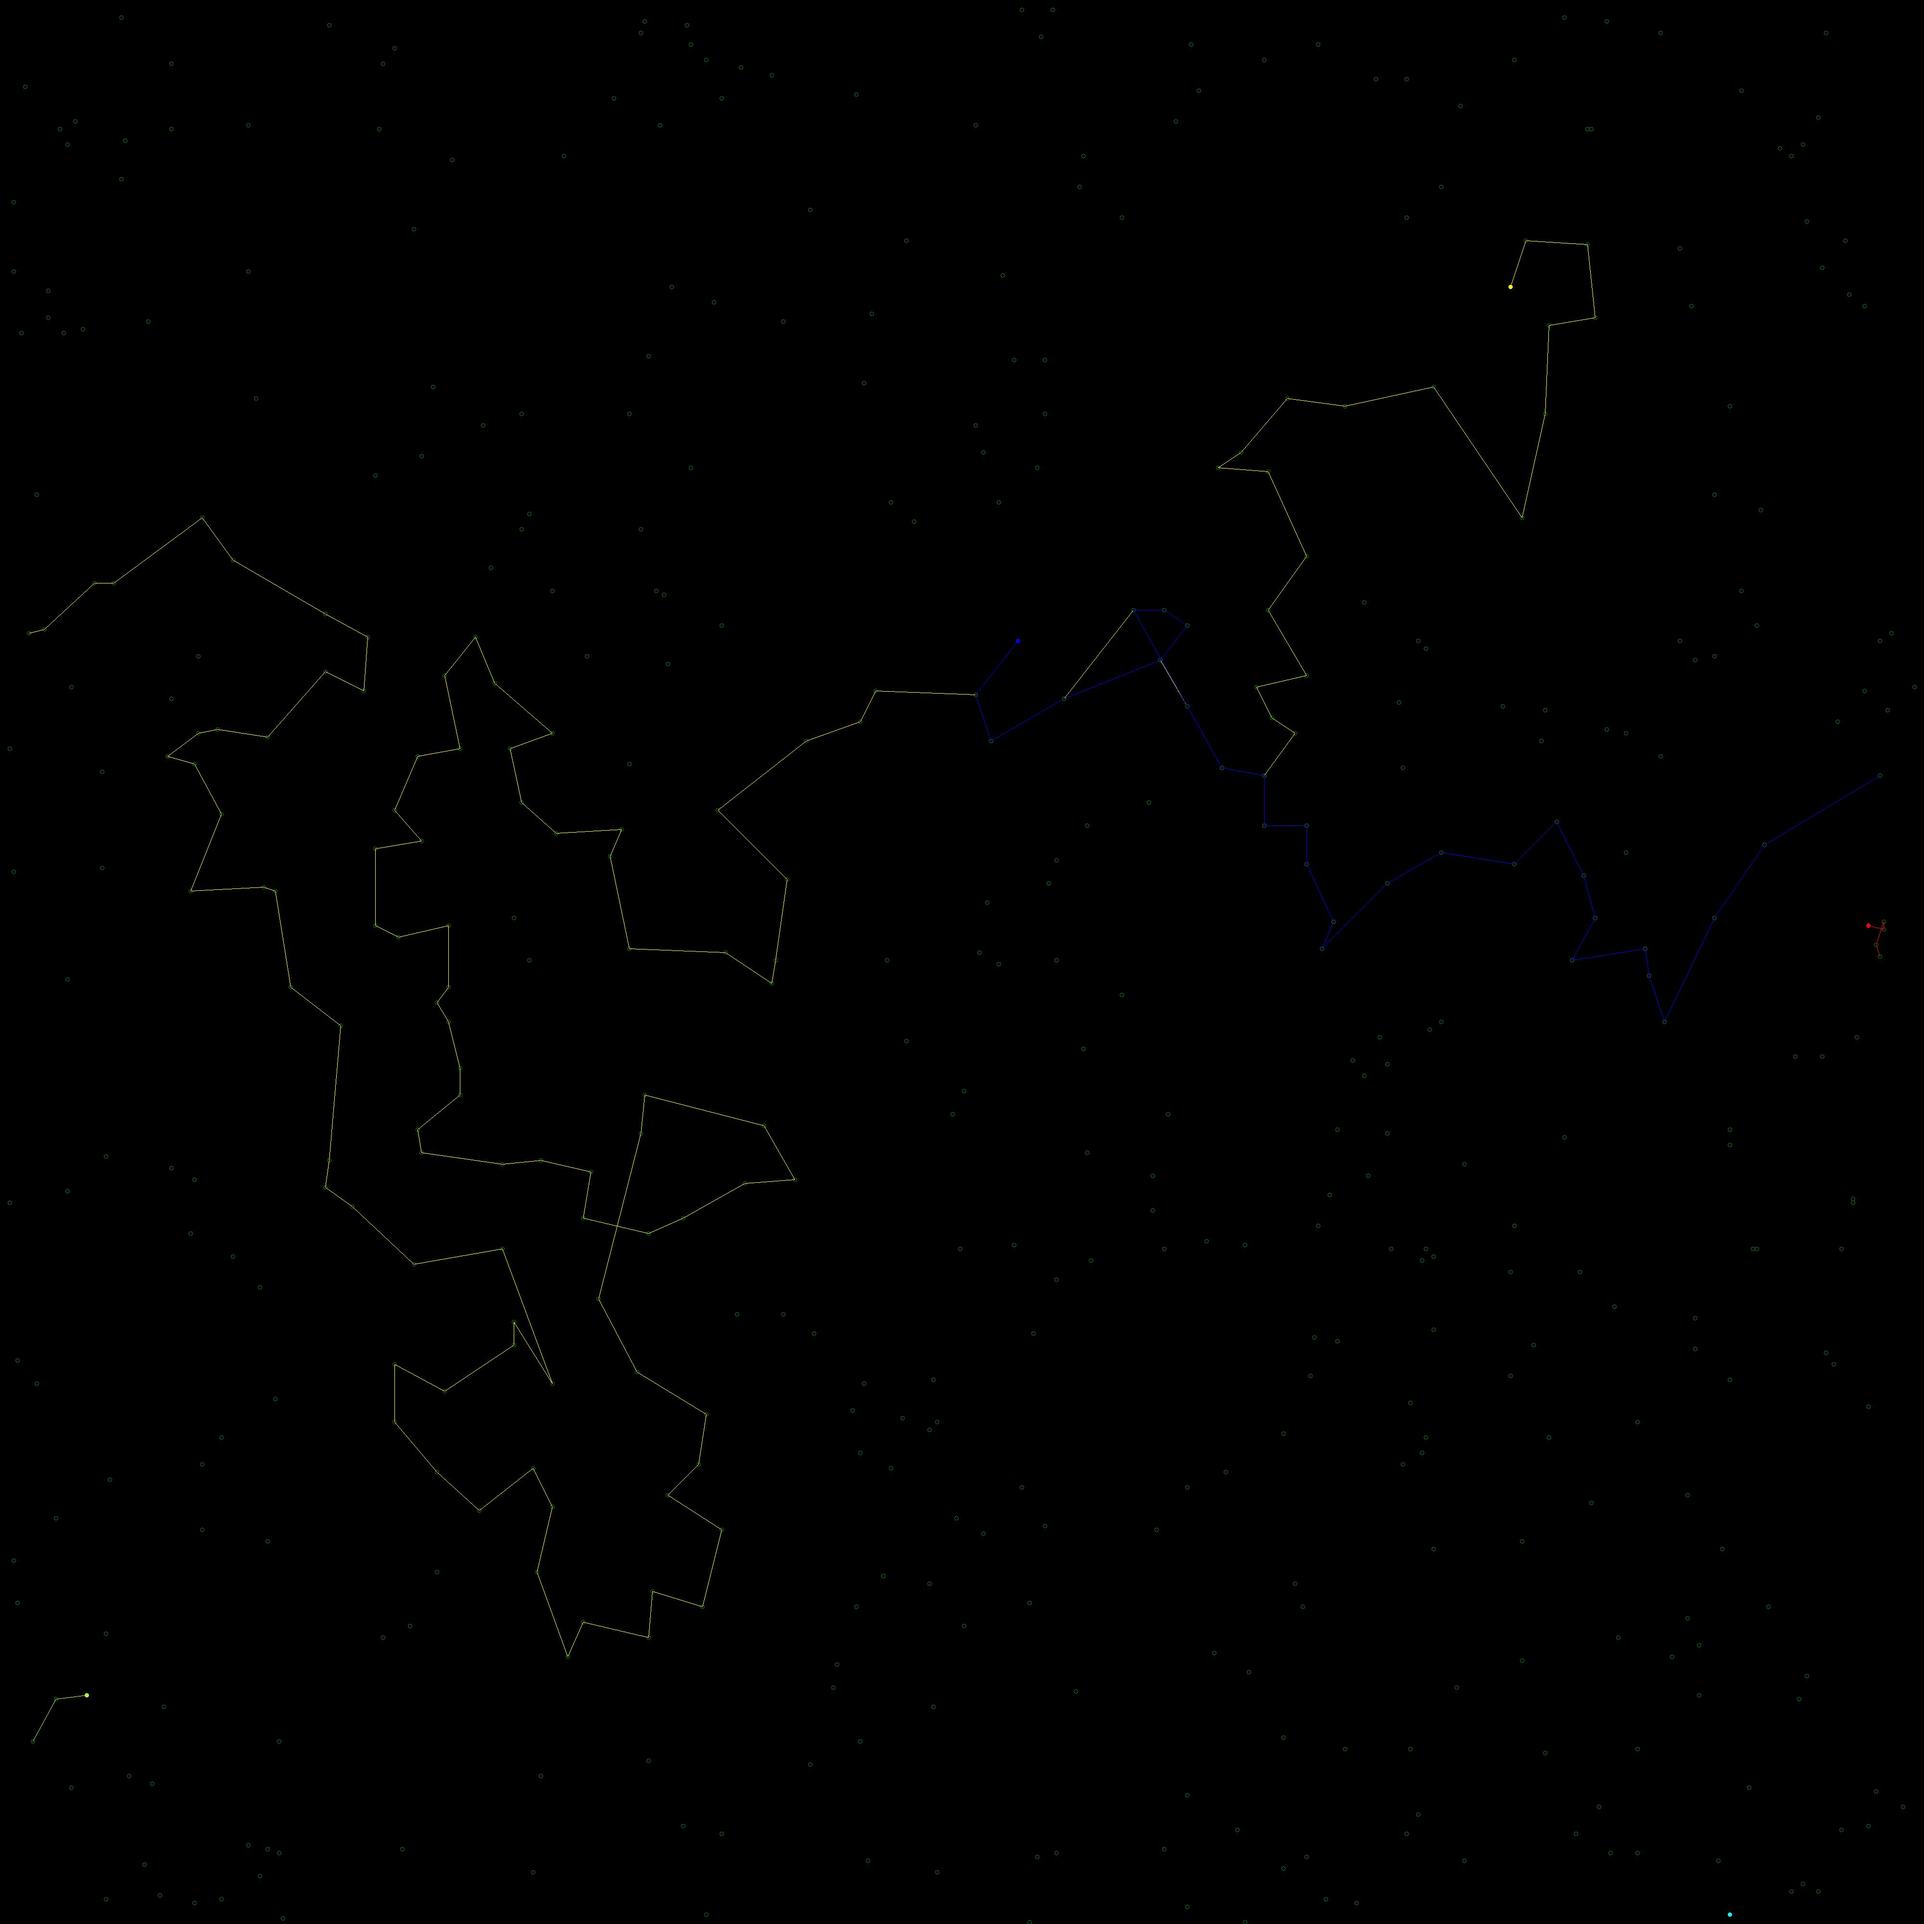
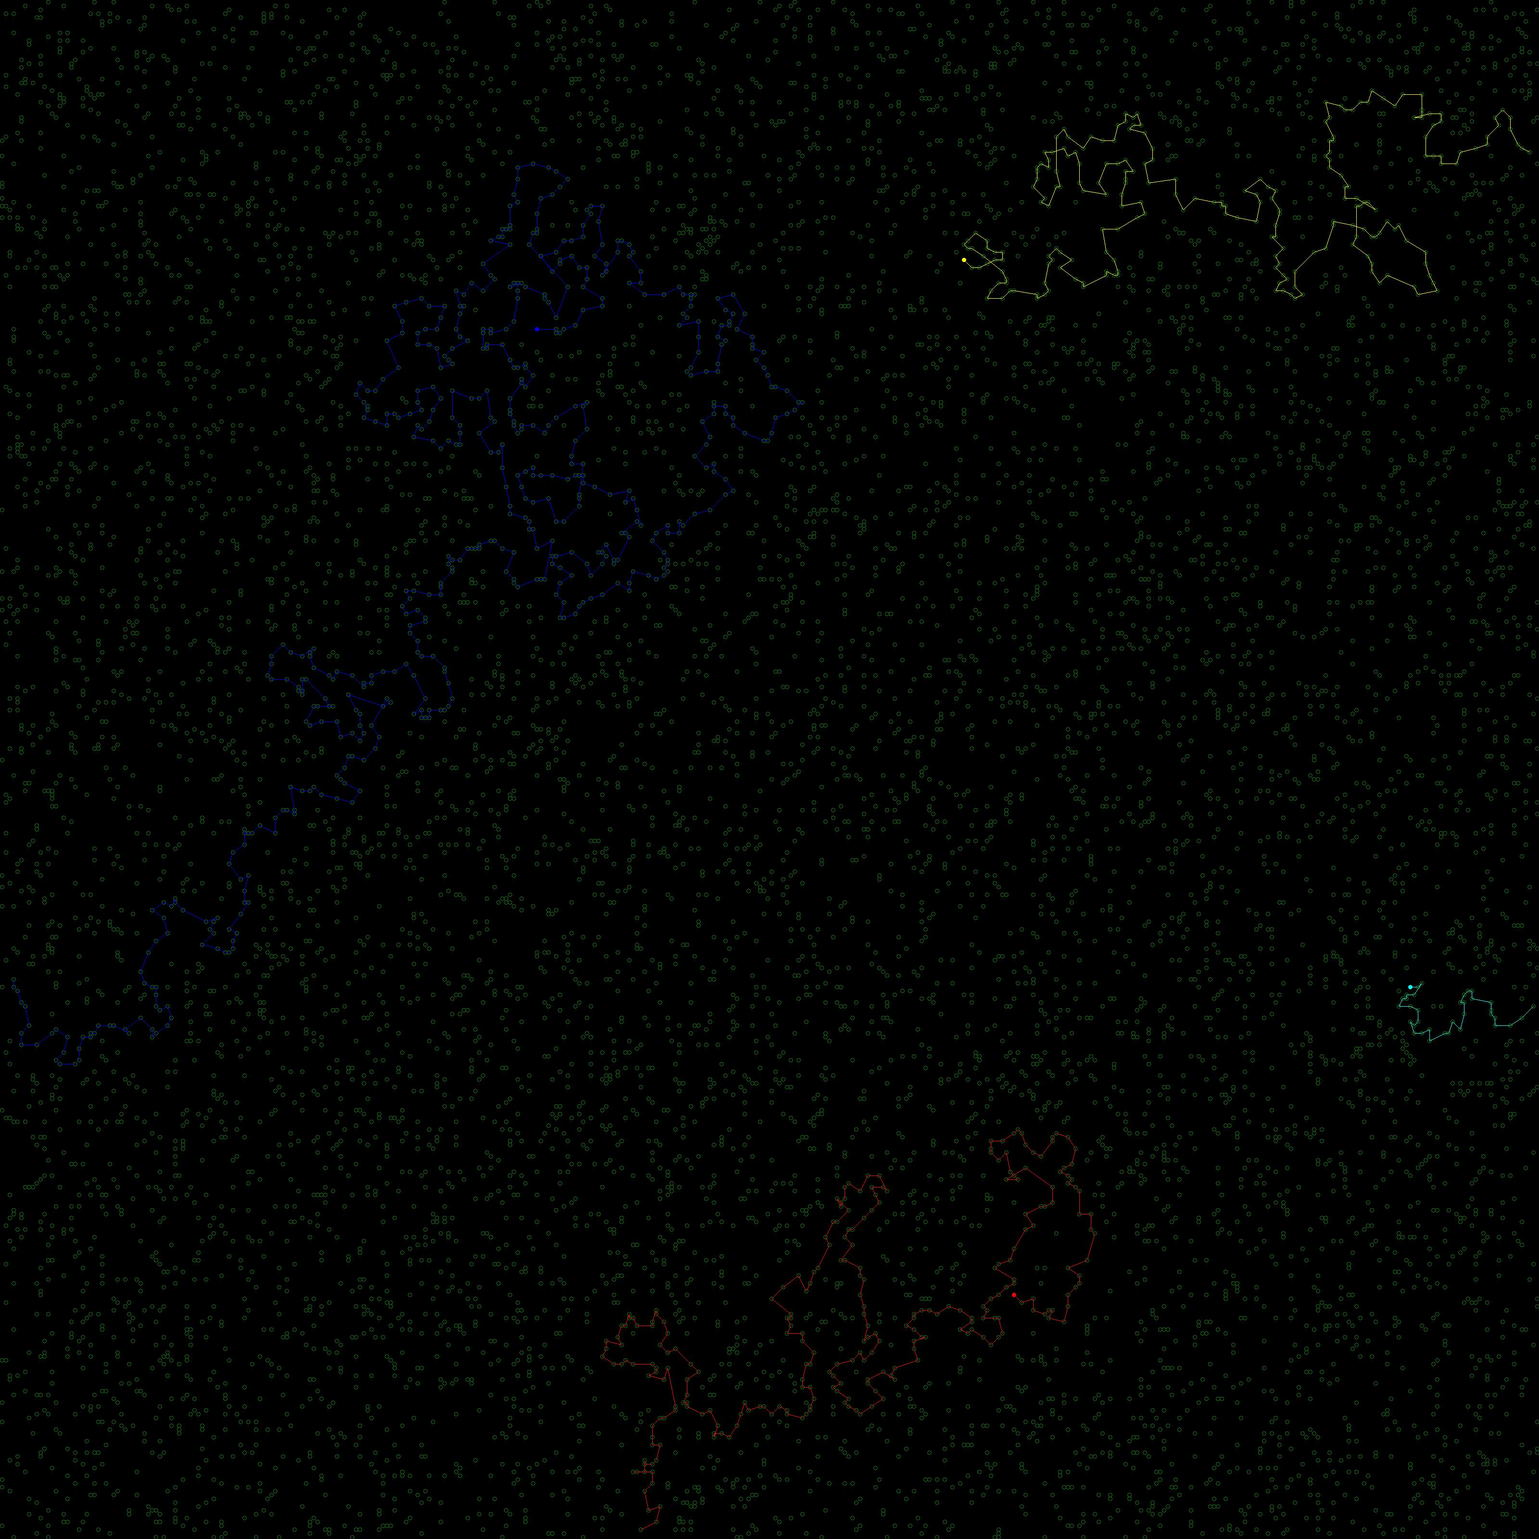
e

diff --git a/Objects/Wood.cs b/Objects/Wood.cs
@@ -1,4 +1,6 @@
-using System;
+using EscapeFromTheWoods.Objects;
+using System;
+using System.Collections.Concurrent;
 using System.Collections.Generic;
 using System.Drawing;
 using System.Drawing.Imaging;
@@ -13,52 +15,50 @@ namespace EscapeFromTheWoods
         private const int drawingFactor = 8;
         private string path;
         private DBwriter db;
-        private Random r = new Random(1);
+        private Random random = new(1);
         public int woodID { get; private set; }
         private Map map;
         private Dictionary<int, Tree> trees;
-        private Dictionary<int, Monkey> monkeys;
+        private ConcurrentDictionary<int, Monkey> monkeys;
 
         public Wood(int woodID, Dictionary<int, Tree> trees, Map map, string path, DBwriter db)
         {
             this.woodID = woodID;
             this.trees = trees;
-            this.monkeys = new Dictionary<int, Monkey>();
+            this.monkeys = new ConcurrentDictionary<int, Monkey>();
             this.map = map;
             this.path = path;
             this.db = db;
         }
 
-        // Place monkey asynchronously
+        // Place monkey
         public Task PlaceMonkeyAsync(string monkeyName, int monkeyID)
         {
-            Tree selectedTree = null;
-            int treeCount = 0;
-
-            foreach(var tree in trees.Values)
+            return Task.Run(() =>
             {
-                if(!tree.hasMonkey)
+                Tree selectedTree = null;
+                int treeCount = 0;
+
+                foreach(var tree in trees.Values)
                 {
-                    if(r.Next(++treeCount) == 0)
+                    if(!tree.hasMonkey)
                     {
-                        selectedTree = tree;
+                        if(random.Next(treeCount++) == 0)
+                        {
+                            selectedTree = tree;
+                        }
                     }
                 }
-            }
 
-            if(selectedTree == null)
-            {
-                throw new InvalidOperationException("No available trees to place a monkey.");
-            }
+                if(selectedTree == null)
+                {
+                    throw new InvalidOperationException("No available trees to place a monkey.");
+                }
 
-            Monkey m = new Monkey(monkeyID, monkeyName, selectedTree);
-            lock(monkeys) // one thread at a time
-            {
-                monkeys.Add(monkeyID, m);
-            }
-            selectedTree.hasMonkey = true;
-
-            return Task.CompletedTask;
+                Monkey m = new(monkeyID, monkeyName, selectedTree);
+                monkeys.TryAdd(monkeyID, m);
+                selectedTree.hasMonkey = true;
+            });
         }
 
         // Monkey escape async
@@ -72,12 +72,14 @@ namespace EscapeFromTheWoods
         // Write route to database
         private async Task WriteRouteToDBAsync(Monkey monkey, List<Tree> route)
         {
-            List<DBMonkeyRecord> records = new List<DBMonkeyRecord>();
+            List<DBMonkeyRecord> records = new();
             for(int j = 0; j < route.Count; j++)
             {
                 records.Add(new DBMonkeyRecord(monkey.monkeyID, monkey.name, woodID, j, route[j].treeID, route[j].x, route[j].y));
             }
-            await db.WriteMonkeyRecords(records);
+            GameMonkeyRecord gmr = new(records);
+
+            await db.WriteMonkeyRecords(gmr);
         }
 
         // Write escape routes to bitmap
@@ -112,7 +114,7 @@ namespace EscapeFromTheWoods
 
         private void DrawTrees(Graphics g)
         {
-            using(Pen p = new Pen(Color.Green, 1))
+            using(Pen p = new(Color.Green, 1))
             {
                 foreach(Tree t in trees.Values)
                 {
@@ -138,7 +140,7 @@ namespace EscapeFromTheWoods
         private void DrawSingleRoute(Graphics g, List<Tree> route, Color color)
         {
             int delta = drawingFactor / 2;
-            using(Pen pen = new Pen(color, 1))
+            using(Pen pen = new(color, 1))
             {
                 int p1x = route[0].x * drawingFactor + delta;
                 int p1y = route[0].y * drawingFactor + delta;
@@ -167,19 +169,23 @@ namespace EscapeFromTheWoods
             Console.ForegroundColor = ConsoleColor.White;
             Console.WriteLine($"{woodID}:start {woodID},{monkey.name}");
 
-            HashSet<int> visited = new HashSet<int> { monkey.tree.treeID };
-            List<Tree> route = new List<Tree>() { monkey.tree };
+            HashSet<int> visited = new() { monkey.tree.treeID };
+            List<Tree> route = new() { monkey.tree };
             var candidateTrees = new HashSet<Tree>(trees.Values.Where(t => !t.hasMonkey));
 
             while(true)
             {
-                double distanceToBorder = DistanceToBorder(monkey.tree);
+                // Directly calculate distance to border
+                double distanceToBorder = Math.Min(Math.Min(monkey.tree.x - map.xmin, map.xmax - monkey.tree.x),
+                                                   Math.Min(monkey.tree.y - map.ymin, map.ymax - monkey.tree.y));
                 Tree closestTree = null;
                 double minDistance = double.MaxValue;
 
                 foreach(var t in candidateTrees)
                 {
-                    double distance = Distance(monkey.tree, t);
+                    // Directly calculate distance between two trees
+                    double distance = Math.Sqrt(Math.Pow(monkey.tree.x - t.x, 2) + Math.Pow(monkey.tree.y - t.y, 2));
+
                     if(distance < minDistance)
                     {
                         minDistance = distance;
@@ -205,7 +211,6 @@ namespace EscapeFromTheWoods
             }
         }
 
-
         // Writes wood data to database
         public async Task WriteWoodToDBAsync()
         {
@@ -213,8 +218,8 @@ namespace EscapeFromTheWoods
             Console.WriteLine($"{woodID}:write db wood {woodID} start");
             List<DBWoodRecord> records = trees.Values.Select(t =>
                 new DBWoodRecord(woodID, t.treeID, t.x, t.y)).ToList();
-
-            await db.WriteWoodRecords(records);
+            GameWoodRecord gwr = new(records);
+            await db.WriteWoodRecords(gwr);
             Console.ForegroundColor = ConsoleColor.Green;
             Console.WriteLine($"{woodID}:write db wood {woodID} end");
         }

diff --git a/Program.cs b/Program.cs
@@ -8,46 +8,57 @@ class Program
 {
     static async Task Main(string[] args)
     {
-        Stopwatch stopwatch = new Stopwatch();
+        Stopwatch stopwatch = new();
         stopwatch.Start();
         string connectionString = @"mongodb://localhost:27017";
-        DBwriter db = new DBwriter(connectionString);
-        string path = @"D:\School 2023-2024\EscapeFromTheWoodsToRefactor\EscapeFromTheWoodsToRefactor\monkeys";
+        DBwriter db = new(connectionString);
+        string path = @"C:\School 2023-2024\Programmeren Specialisatie\EscapeFromTheWoodsToRefactor\monkeys";
 
-        Map m1 = new Map(0, 500, 0, 500);
-        Wood w1 = WoodBuilder.GetWood(500, m1, path, db);
+        Task t1 = Task.Run(async () =>
+        {
+            Map m1 = new(0, 500, 0, 500);
+            Wood w1 = WoodBuilder.GetWood(30000, m1, path, db);
+            PlaceMonkeysInWood(w1, new string[] { "Alice", "Janice", "Toby", "Mindy", "Jos" });
+            await Console.Out.WriteLineAsync("GAME 1 START");
+            await w1.WriteWoodToDBAsync();
+            await w1.EscapeAsync();
+        });
 
-        Map m2 = new Map(0, 200, 0, 400);
-        Wood w2 = WoodBuilder.GetWood(2500, m2, path, db);
+        Task t2 = Task.Run(async () =>
+        {
+            Map m2 = new(0, 200, 0, 400);
+            Wood w2 = WoodBuilder.GetWood(20000, m2, path, db);
+            PlaceMonkeysInWood(w2, new string[] { "Tom", "Jerry", "Tiffany", "Mozes", "Jebus" });
+            await Console.Out.WriteLineAsync("GAME 2 START");
+            await w2.WriteWoodToDBAsync();
+            await w2.EscapeAsync();
+        });
 
-        Map m3 = new Map(0, 400, 0, 400);
-        Wood w3 = WoodBuilder.GetWood(2000, m3, path, db);
+        Task t3 = Task.Run(async () =>
+        {
+            Map m3 = new(0, 400, 0, 400);
+            Wood w3 = WoodBuilder.GetWood(10000, m3, path, db);
+            PlaceMonkeysInWood(w3, new string[] { "Kelly", "Kenji", "Kobe", "Kendra" });
+            await Console.Out.WriteLineAsync("GAME 3 START");
+            await w3.WriteWoodToDBAsync();
+            await w3.EscapeAsync();
+        });
 
-        var placementTasks = new List<Task>
-            {
-        PlaceMonkeysInWood(w1, new string[] { "Alice", "Janice", "Toby", "Mindy", "Jos" }),
-        PlaceMonkeysInWood(w2, new string[] { "Tom", "Jerry", "Tiffany", "Mozes", "Jebus" }),
-        PlaceMonkeysInWood(w3, new string[] { "Kelly", "Kenji", "Kobe", "Kendra" })
-             };
-        await Task.WhenAll(placementTasks);
-
-        // Write to DB
-        var dbTasks = new Task[] { w1.WriteWoodToDBAsync(), w2.WriteWoodToDBAsync(), w3.WriteWoodToDBAsync() };
-        await Task.WhenAll(dbTasks);
-
-        // Escape at the same time
-        var escapeTasks = new Task[] { w1.EscapeAsync(), w2.EscapeAsync(), w3.EscapeAsync() };
-        await Task.WhenAll(escapeTasks);
+        await Task.WhenAll(t1, t2, t3);
 
         stopwatch.Stop();
         Console.WriteLine("Time elapsed: {0}", stopwatch.Elapsed);
         Console.WriteLine("end");
     }
+
     static async Task PlaceMonkeysInWood(Wood wood, IEnumerable<string> monkeyNames)
     {
+        var tasks = new List<Task>();
         foreach(var name in monkeyNames)
         {
-            await wood.PlaceMonkeyAsync(name, IDgenerator.GetMonkeyID());
+            int monkeyID = IDgenerator.GetMonkeyID();
+            tasks.Add(wood.PlaceMonkeyAsync(name, monkeyID));
         }
+        await Task.WhenAll(tasks);
     }
 }

diff --git a/Database/DBwriter.cs b/Database/DBwriter.cs
@@ -1,7 +1,5 @@
-using MongoDB.Bson;
+using EscapeFromTheWoods.Objects;
 using MongoDB.Driver;
-using System;
-using System.Collections.Generic;
 using System.Threading.Tasks;
 
 namespace EscapeFromTheWoods
@@ -17,61 +15,17 @@ namespace EscapeFromTheWoods
             database = client.GetDatabase("EscapeFromTheWoodsDB");
         }
 
-        public async Task WriteWoodRecords(List<DBWoodRecord> data)
+        public async Task WriteWoodRecords(GameWoodRecord data)
         {
-            var collection = database.GetCollection<BsonDocument>("WoodRecords");
-            var documents = new List<BsonDocument>();
+            var collection = database.GetCollection<GameWoodRecord>("WoodRecords");
 
-            foreach(var x in data)
-            {
-                var document = new BsonDocument
-            {
-                { "woodID", x.woodID },
-                { "treeID", x.treeID },
-                { "x", x.x },
-                { "y", x.y }
-            };
-                documents.Add(document);
-            }
-
-            try
-            {
-                await collection.InsertManyAsync(documents);
-            }
-            catch(Exception ex)
-            {
-                Console.WriteLine(ex);
-            }
+            await collection.InsertOneAsync(data);
         }
 
-        public async Task WriteMonkeyRecords(List<DBMonkeyRecord> data)
+        public async Task WriteMonkeyRecords(GameMonkeyRecord data)
         {
-            var collection = database.GetCollection<BsonDocument>("MonkeyRecords");
-            var documents = new List<BsonDocument>();
-
-            foreach(var x in data)
-            {
-                var document = new BsonDocument
-            {
-                { "monkeyID", x.monkeyID },
-                { "monkeyName", x.monkeyName },
-                { "woodID", x.woodID },
-                { "seqNr", x.seqNr },
-                { "treeID", x.treeID },
-                { "x", x.x },
-                { "y", x.y }
-            };
-                documents.Add(document);
-            }
-
-            try
-            {
-                await collection.InsertManyAsync(documents);
-            }
-            catch(Exception ex)
-            {
-                Console.WriteLine(ex);
-            }
+            var collection = database.GetCollection<GameMonkeyRecord>("MonkeyRecords");
+            await collection.InsertOneAsync(data);
         }
     }
 }

diff --git a/Objects/GameMonkeyRecord.cs b/Objects/GameMonkeyRecord.cs
@@ -1,0 +1,14 @@
+using System.Collections.Generic;
+
+namespace EscapeFromTheWoods.Objects
+{
+    public class GameMonkeyRecord
+    {
+        public List<DBMonkeyRecord> Records;
+
+        public GameMonkeyRecord(List<DBMonkeyRecord> records)
+        {
+            Records = records;
+        }
+    }
+}

diff --git a/Objects/GameWoodRecord.cs b/Objects/GameWoodRecord.cs
@@ -1,0 +1,14 @@
+using System.Collections.Generic;
+
+namespace EscapeFromTheWoods.Objects
+{
+    public class GameWoodRecord
+    {
+        public List<DBWoodRecord> Records;
+
+        public GameWoodRecord(List<DBWoodRecord> records)
+        {
+            Records = records;
+        }
+    }
+}
